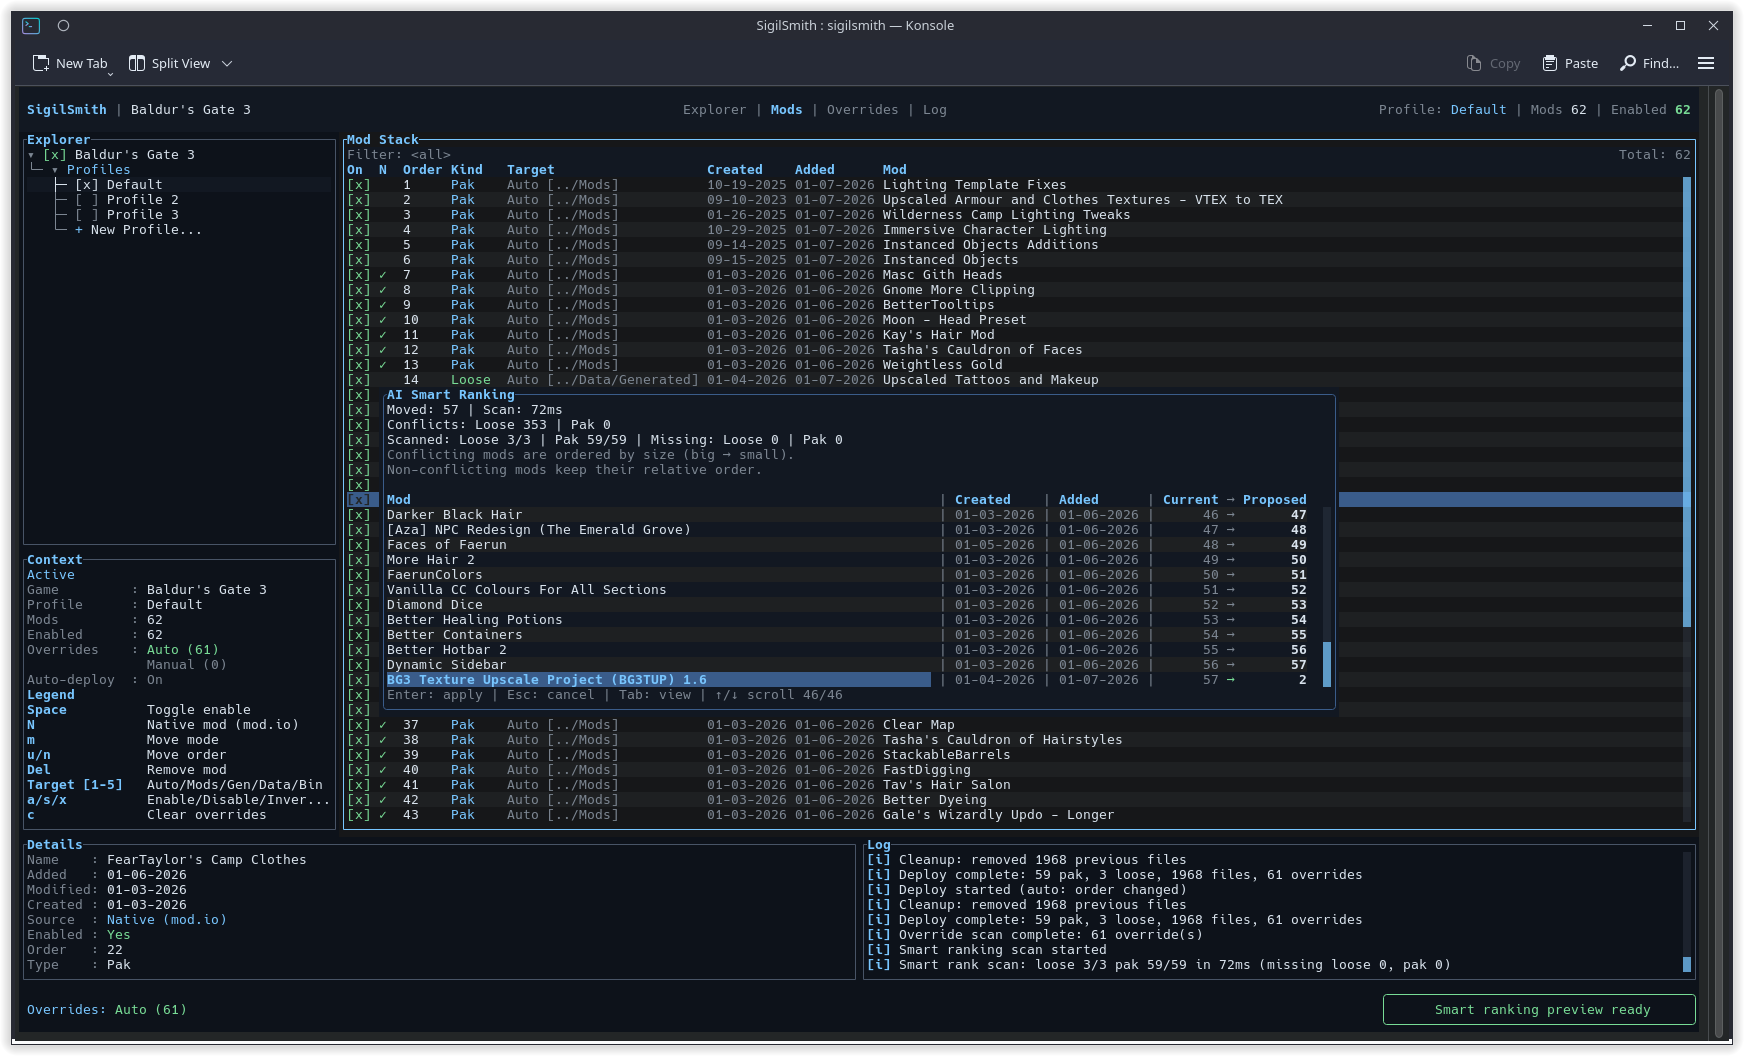
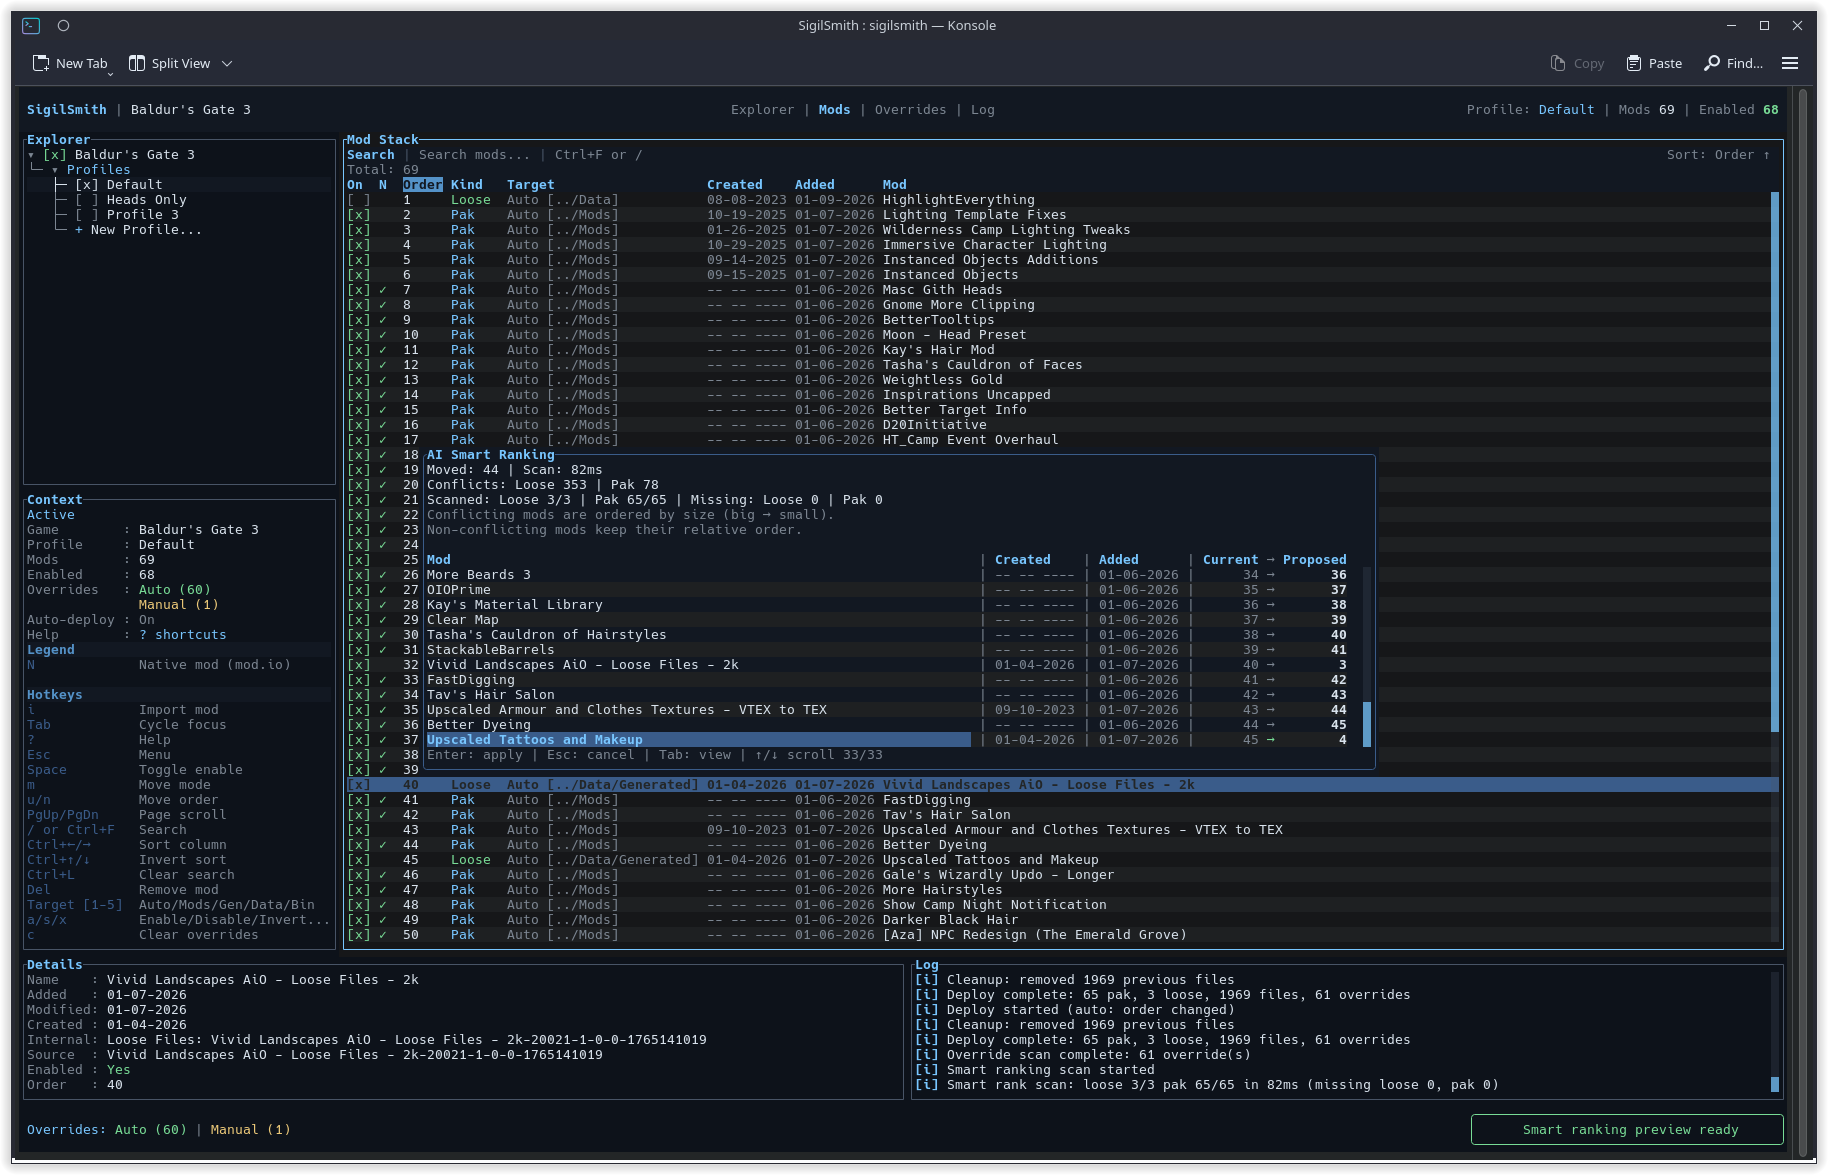
Release v0.5.0

diff --git a/docs/release_body.md b/docs/release_body.md
@@ -1,13 +1,13 @@
-# SigilSmith v0.4.8
+# SigilSmith v0.5.0
 
 SigilSmith is a Linux-first TUI mod manager for Baldur's Gate 3. Drag-drop mods, manage profiles, resolve overrides, and deploy with confidence. Multi-game support is coming next via an open adapter template.
 
 ## Highlights
 
 - Native mod entries resolve .pak filenames (including spaces) and stop overwriting Created dates when metadata is missing.
-- Mod stack search bar with `/` or `Ctrl+F`, debounced preview, and inline clear hints.
-- Mod stack sorting with a visible indicator, easy cycling, and a guard dialog when moving while sorted/filtered.
-- Help overlay with full hotkeys, cleaner legend/hotkeys styling, and stable panel heights.
+- Mod stack search bar with `/` or `Ctrl+F`, debounced preview, and inline clear hints; shortcuts can jump to the mod stack.
+- Mod stack sorting with a visible indicator, Ctrl+arrow cycling, and a guard dialog when moving while sorted/filtered.
+- Help overlay with full hotkeys, refined context/legend styling, and stable panel heights.
 - PageUp/PageDown now page through the mod list when focused.
 - Import pipeline improvements for script extender-style archives and override `.pak` files without `meta.lsx`.
 - Ignore `.git` and `.vscode` folders when importing/scanning/deploying loose files.
@@ -17,10 +17,11 @@ SigilSmith is a Linux-first TUI mod manager for Baldur's Gate 3. Drag-drop mods,
 
 ![Overview](docs/01-hero-overview.png)
 ![Profiles](docs/02-explorer-profiles.png)
+![Search](docs/02.5-search-names.png)
+![Sort](docs/02.8_sort_by_name.png)
 ![Overrides](docs/03-overrides-mode.png)
 ![Smart Ranking](docs/04-smart-ranking.png)
 ![Settings](docs/05-settings-menu.png)
-![Import Toast](docs/06-import-toast.png)
 ![Directory Select](docs/07_directory_select.png)
 
 ## Install

diff --git a/CHANGELOG.md b/CHANGELOG.md
@@ -2,6 +2,18 @@
 
 ## Unreleased
 
+## 0.5.0
+
+- Native mod entries resolve .pak filenames (including spaces) and stop overwriting Created dates when metadata is missing.
+- Mod stack search bar with `/` or `Ctrl+F`, debounced preview, and inline clear hints; global shortcuts focus the mod stack.
+- Mod stack sorting with visible indicator, Ctrl+arrow cycling, and a guard dialog when moving while sorted/filtered.
+- Help overlay and context panels refined with stable legend/hotkeys layout and clearer headers.
+- PageUp/PageDown now page through the mod list when focused.
+- Import pipeline improvements for script extender-style archives and override `.pak` files without `meta.lsx`.
+- Ignore `.git` and `.vscode` folders when importing/scanning/deploying loose files.
+- Update checks fixed from the settings menu.
+- Refresh release headers and screenshots for the 0.5.x series.
+
 ## 0.4.8
 
 - Reconcile modsettings entries without managed storage to resolve native .pak filenames (incl. spaces) and timestamps.
